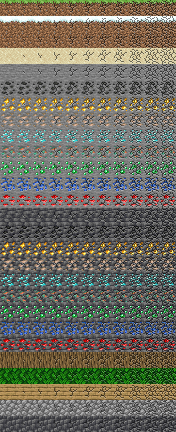
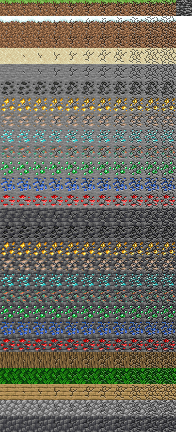
add Bedrock

diff --git a/res/sprites.go b/res/sprites.go
@@ -11,8 +11,7 @@ import (
 
 var (
 	AtlasPlayer  = util.LoadEbitenImageFromFS(assets, "assets/player.png")
-	Border48     = util.LoadEbitenImageFromFS(assets, "assets/border48.png")
-	Border32     = util.LoadEbitenImageFromFS(assets, "assets/border32.png")
+	Border       = util.LoadEbitenImageFromFS(assets, "assets/border64.png")
 	Slot16       = util.LoadEbitenImageFromFS(assets, "assets/slot16.png")
 	SpriteFrames = make(map[uint16][]*ebiten.Image)
 )
@@ -23,6 +22,7 @@ func init() {
 	s := 16
 
 	// blocks
+	SpriteFrames[itm.Bedrock] = anim.SubImages(blockAtlas, 176, 0, s, s, 1, false)
 	SpriteFrames[itm.Grass] = anim.SubImages(blockAtlas, 0, 0, s, s, 11, false)
 	SpriteFrames[itm.Snow] = anim.SubImages(blockAtlas, 0, s, s, s, 11, false)
 	SpriteFrames[itm.Dirt] = anim.SubImages(blockAtlas, 0, 2*s, s, s, 11, false)

diff --git a/itm/items.go b/itm/items.go
@@ -57,6 +57,7 @@ const (
 	DeepslateEmeraldOre
 	DeepslateLapisOre
 	DeepslateRedStoneOre
+	Bedrock
 
 	Log
 	Leaves
@@ -240,6 +241,14 @@ var Items = map[uint16]Item{
 		MaxHealth:   10,
 		Category:    CatBlock,
 	},
+	CobbledDeepslate: {
+		DisplayName: "Cobbled Deepslate",
+		Drops:       CobbledDeepslate,
+		Stackable:   64,
+		Breakable:   true,
+		MaxHealth:   10,
+		Category:    CatBlock,
+	},
 	DeepslateCoalOre: {
 		DisplayName: "Deepslate Coal Ore",
 		Drops:       Coal,
@@ -304,6 +313,14 @@ var Items = map[uint16]Item{
 		Breakable:   true,
 		MaxHealth:   10,
 		Category:    CatBlock | CatOreBlock,
+	},
+	Bedrock: {
+		DisplayName: "Bedrock",
+		Drops:       Air,
+		Stackable:   0,
+		Breakable:   false,
+		MaxHealth:   1,
+		Category:    CatBlock,
 	},
 	Log: {
 		DisplayName: "Log",

diff --git a/system/controls.go b/system/controls.go
@@ -149,17 +149,23 @@ func (sys *PlayerControlSystem) Update() {
 
 		// Attack
 		if ebiten.IsKeyPressed(ebiten.KeyShiftRight) {
+
 			if attackSegmentQuery.Shape != nil && attackSegmentQuery.Shape == hitShape {
 				if hitShape != nil {
+
 					if checkEntry(hitShape.Body()) {
 						e := getEntry(hitShape.Body())
-						if e.HasComponent(comp.Item) {
-							h := comp.Health.Get(e)
-							h.Health -= 0.2
+						if e.HasComponent(comp.Item) && e.HasComponent(comp.BlockTag) && e.HasComponent(comp.Health) {
+							it := comp.Item.Get(e)
+							if itm.Items[it.ID].Breakable {
+								h := comp.Health.Get(e)
+								h.Health -= 0.2
+							}
 						}
 					}
 				}
 			}
+
 		}
 
 		// Place block

diff --git a/arche/archetypes.go b/arche/archetypes.go
@@ -150,7 +150,7 @@ func SpawnDropItem(pos vec.Vec2, itemID uint16, chunkCoord image.Point) {
 		comp.DropItemTag,
 		comp.Index, // animasyon için zamanlayıcı
 	))
-	itemWidth := res.BlockSize / 4
+	itemWidth := res.BlockSize / 3
 	comp.DrawOptions.Set(DropItemEntry, &types.DataDrawOptions{
 		CenterOffset: vec.Vec2{-8, -8},
 		Scale:        mathutil.RectangleScaleFactor(16, 16, itemWidth, itemWidth),

diff --git a/system/camera.go b/system/camera.go
@@ -157,7 +157,7 @@ func (ds *DrawCameraSystem) Draw(scr *ebiten.Image) {
 					dio.GeoM.Translate(
 						currentBlockPos.X+res.BlockCenterOffset.X,
 						currentBlockPos.Y+res.BlockCenterOffset.Y)
-					res.Cam.Draw(res.Border48, dio, scr)
+					res.Cam.Draw(res.Border, dio, scr)
 				}
 			}
 		}

diff --git a/res/resources.go b/res/resources.go
@@ -25,9 +25,9 @@ var assets embed.FS
 
 // GameSettings
 var (
-	WorldSize         = vec.Vec2{1024, 512}
-	BlockSize float64 = 16 * 3
-	ChunkSize float64 = 12
+	WorldSize         = vec.Vec2{512, 512}
+	BlockSize float64 = 16 * 4
+	ChunkSize float64 = 8
 	/*
 		640,360  1280,720
 		854,480  1366,768
